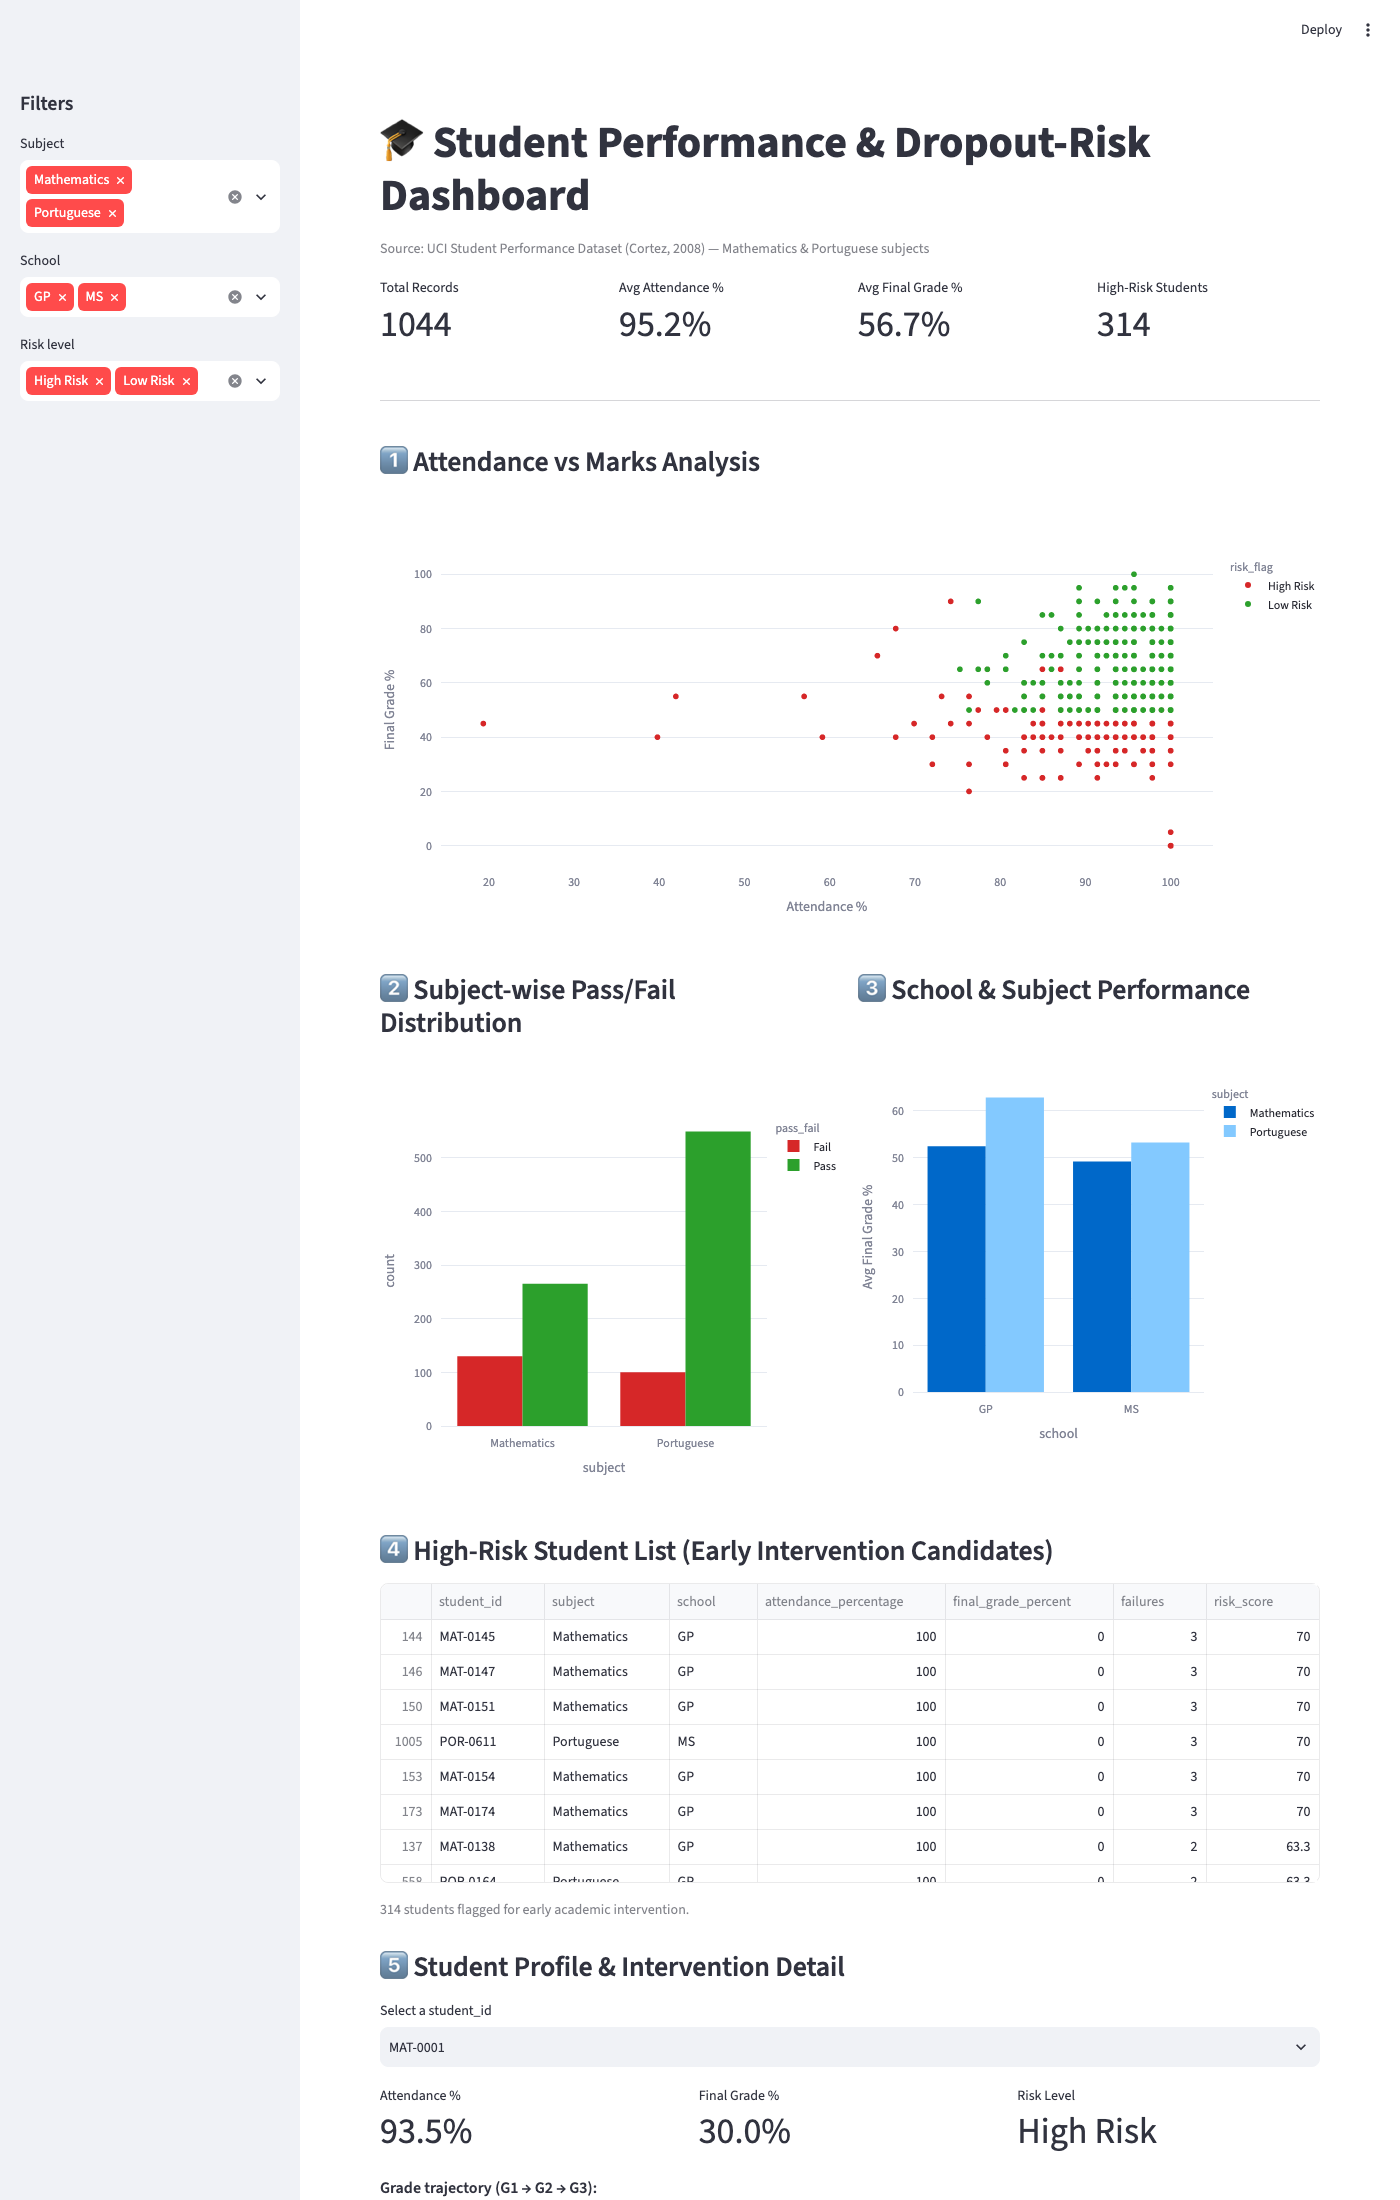
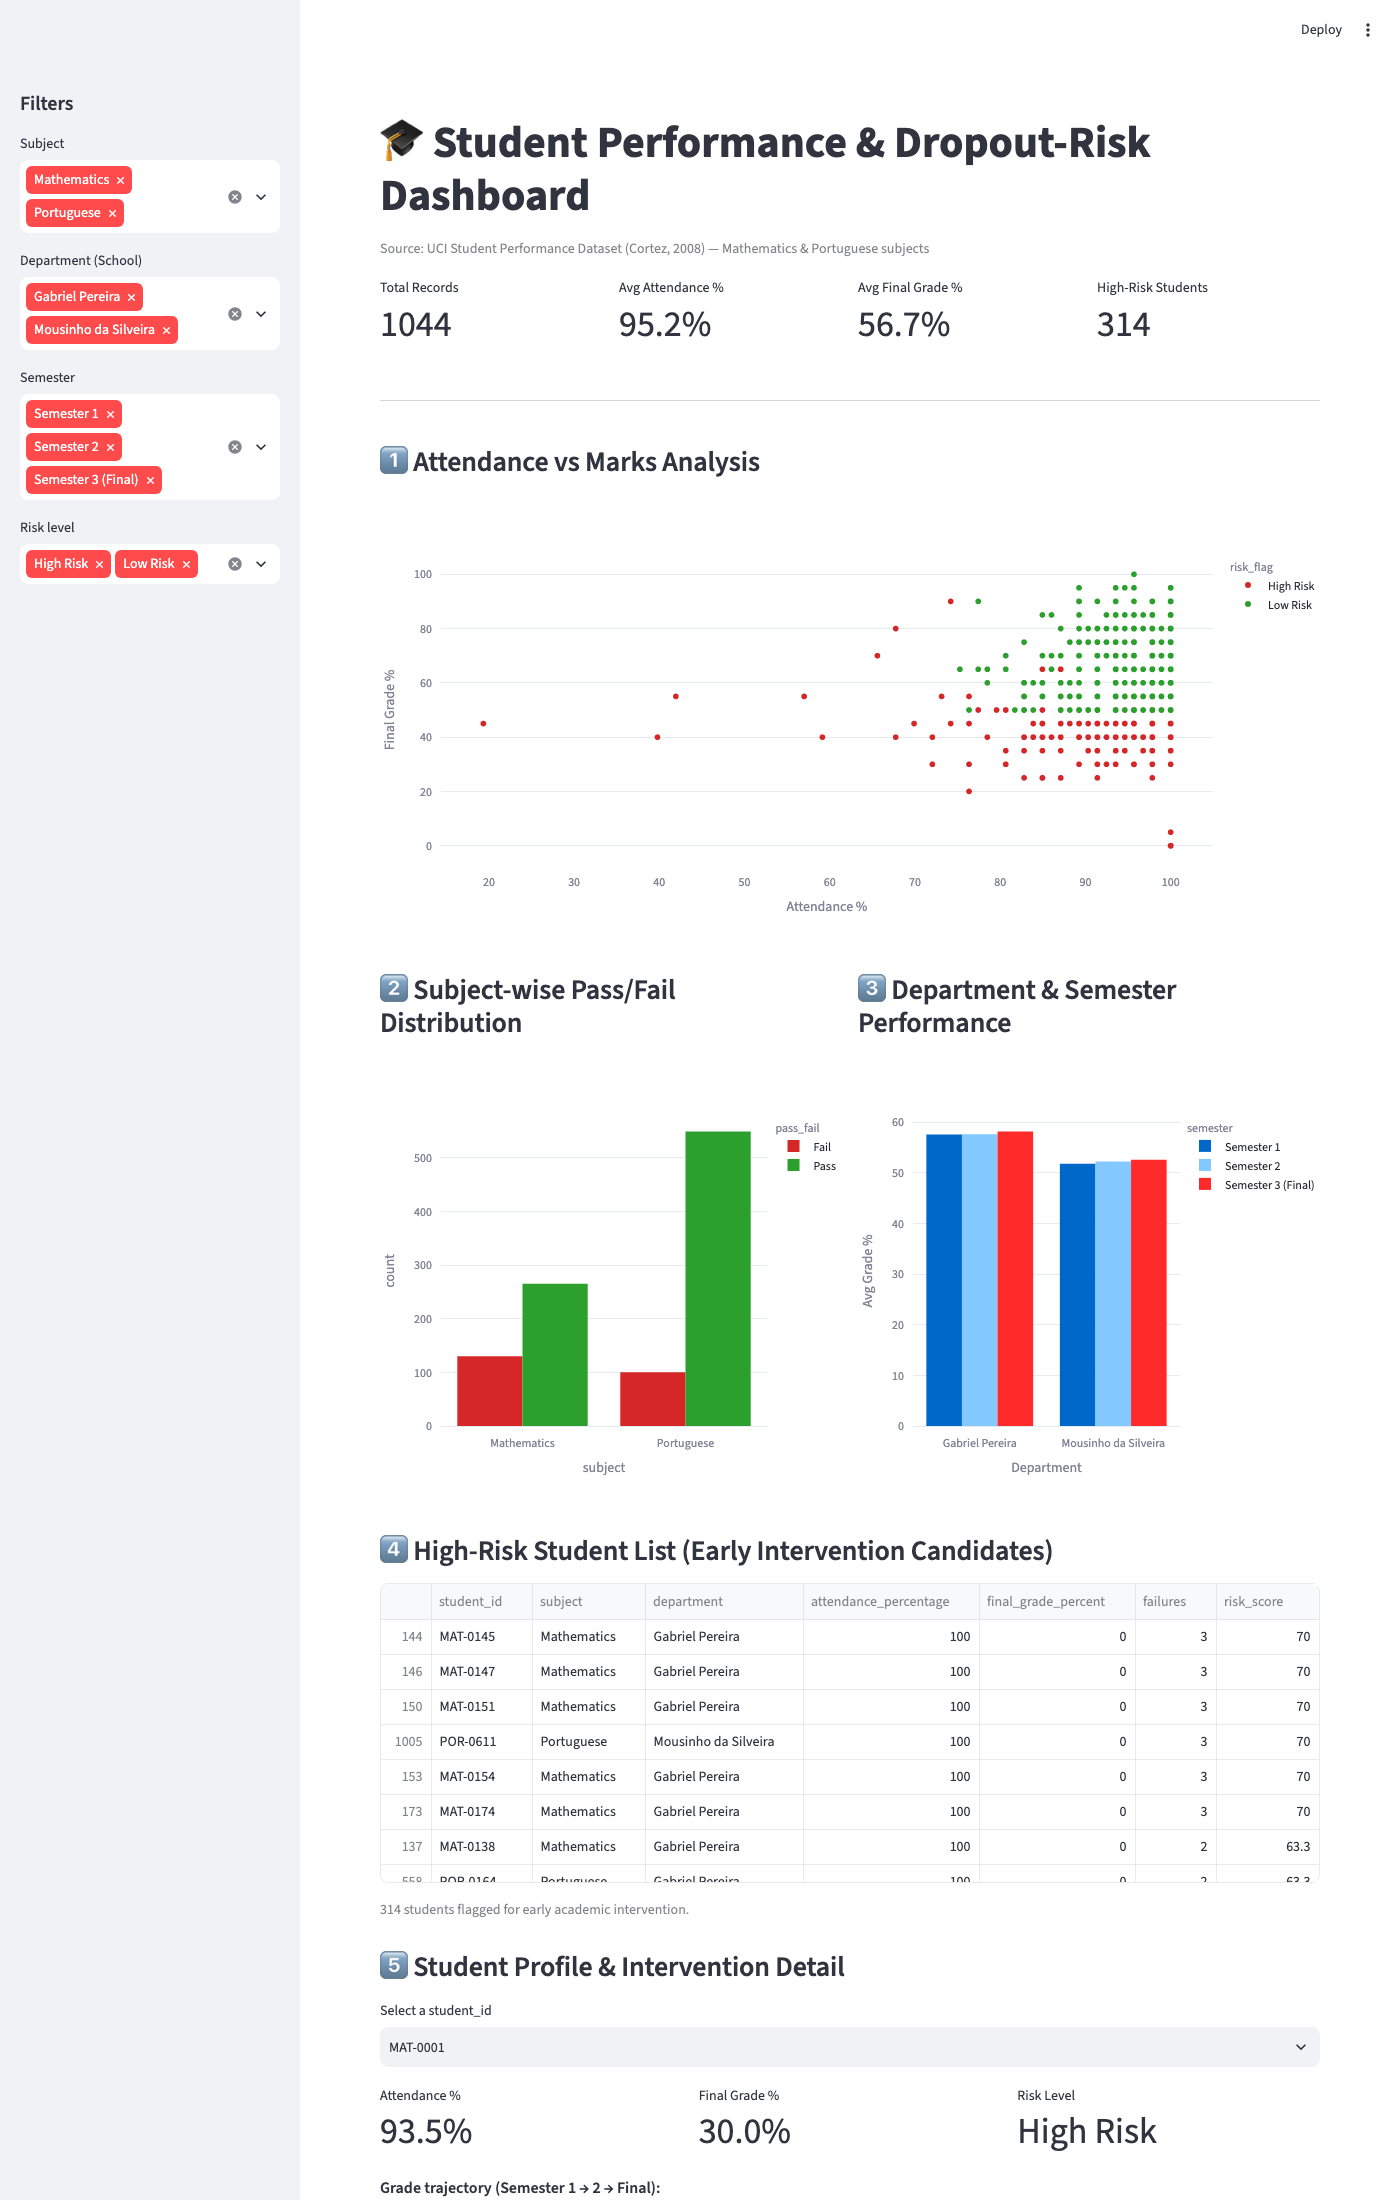
Add Department and Semester filters to the Streamlit dashboard
- Sidebar: Department (School) filter using real school names (Gabriel Pereira / Mousinho da Silveira)
- Sidebar: Semester filter (Semester 1/2/Final, mapped from G1/G2/G3 assessment periods)
- View 3 updated to Department & Semester Performance (grouped bar by department, colored by semester)
- Student profile grade trajectory relabeled to semester terms for consistency

diff --git a/dashboard/app.py b/dashboard/app.py
@@ -33,17 +33,32 @@ def load_data():
 
 df, subject_summary, dept_summary = load_data()
 
+# The UCI dataset's `school` code stands in for "department" here (GP / MS
+# are the two participating secondary schools); mapped to their real names
+# for readability. There's no native semester field either -- G1, G2, G3 are
+# the three periodic assessment checkpoints across the academic term, so
+# they're treated as "Semester 1 / 2 / Final" for the semester-wise view.
+DEPARTMENT_LABELS = {"GP": "Gabriel Pereira", "MS": "Mousinho da Silveira"}
+SEMESTER_LABELS = {"G1": "Semester 1", "G2": "Semester 2", "G3": "Semester 3 (Final)"}
+
+df["department"] = df["school"].map(DEPARTMENT_LABELS).fillna(df["school"])
+
 st.title("🎓 Student Performance & Dropout-Risk Dashboard")
 st.caption("Source: UCI Student Performance Dataset (Cortez, 2008) — Mathematics & Portuguese subjects")
 
 # --- Sidebar filters ---------------------------------------------------
 st.sidebar.header("Filters")
 subjects = st.sidebar.multiselect("Subject", options=df["subject"].unique(), default=list(df["subject"].unique()))
-schools = st.sidebar.multiselect("School", options=df["school"].unique(), default=list(df["school"].unique()))
+departments = st.sidebar.multiselect(
+    "Department (School)", options=df["department"].unique(), default=list(df["department"].unique())
+)
+semesters = st.sidebar.multiselect(
+    "Semester", options=list(SEMESTER_LABELS.values()), default=list(SEMESTER_LABELS.values())
+)
 risk_filter = st.sidebar.multiselect("Risk level", options=df["risk_flag"].unique(), default=list(df["risk_flag"].unique()))
 
 filtered = df[
-    df["subject"].isin(subjects) & df["school"].isin(schools) & df["risk_flag"].isin(risk_filter)
+    df["subject"].isin(subjects) & df["department"].isin(departments) & df["risk_flag"].isin(risk_filter)
 ]
 
 # --- KPI row -------------------------------------------------------
@@ -75,12 +90,26 @@ with col_a:
                   color_discrete_map={"Pass": "#2ca02c", "Fail": "#d62728"})
     st.plotly_chart(fig2, use_container_width=True)
 
-# --- View 3: Department (school) and subject performance -------------
+# --- View 3: Department and semester performance ----------------------
 with col_b:
-    st.subheader("3⃣ School & Subject Performance")
+    st.subheader("3⃣ Department & Semester Performance")
+    period_df = filtered.melt(
+        id_vars=["department"], value_vars=["G1", "G2", "G3"],
+        var_name="period", value_name="grade",
+    )
+    period_df["semester"] = period_df["period"].map(SEMESTER_LABELS)
+    period_df = period_df[period_df["semester"].isin(semesters)]
+    period_df["grade_percent"] = period_df["grade"] / 20 * 100
+
+    dept_semester_summary = (
+        period_df.groupby(["department", "semester"])["grade_percent"]
+        .mean().reset_index()
+    )
     fig3 = px.bar(
-        dept_summary, x="school", y="avg_final_grade_percent", color="subject",
-        barmode="group", labels={"avg_final_grade_percent": "Avg Final Grade %"},
+        dept_semester_summary, x="department", y="grade_percent", color="semester",
+        barmode="group",
+        category_orders={"semester": list(SEMESTER_LABELS.values())},
+        labels={"grade_percent": "Avg Grade %", "department": "Department"},
     )
     st.plotly_chart(fig3, use_container_width=True)
 
@@ -89,7 +118,7 @@ st.subheader("4⃣ High-Risk Student List (Early Intervention Candidates)")
 high_risk = (
     filtered[filtered["risk_flag"] == "High Risk"]
     .sort_values("risk_score", ascending=False)
-    [["student_id", "subject", "school", "attendance_percentage", "final_grade_percent",
+    [["student_id", "subject", "department", "attendance_percentage", "final_grade_percent",
       "failures", "risk_score"]]
 )
 st.dataframe(high_risk, use_container_width=True, height=300)
@@ -105,14 +134,17 @@ pc1.metric("Attendance %", f"{profile['attendance_percentage']:.1f}%")
 pc2.metric("Final Grade %", f"{profile['final_grade_percent']:.1f}%")
 pc3.metric("Risk Level", profile["risk_flag"])
 
-st.write("**Grade trajectory (G1 → G2 → G3):**")
-trend_df = pd.DataFrame({"Assessment": ["G1", "G2", "G3"], "Grade": [profile["G1"], profile["G2"], profile["G3"]]})
-fig5 = px.line(trend_df, x="Assessment", y="Grade", markers=True, range_y=[0, 20])
+st.write("**Grade trajectory (Semester 1 → 2 → Final):**")
+trend_df = pd.DataFrame({
+    "Semester": list(SEMESTER_LABELS.values()),
+    "Grade": [profile["G1"], profile["G2"], profile["G3"]],
+})
+fig5 = px.line(trend_df, x="Semester", y="Grade", markers=True, range_y=[0, 20])
 st.plotly_chart(fig5, use_container_width=True)
 
 st.write("**Demographics & engagement:**")
 st.json({
-    "school": profile["school"], "sex": profile["sex"], "age": int(profile["age"]),
+    "department": profile["department"], "sex": profile["sex"], "age": int(profile["age"]),
     "address": profile["address"], "internet_access": profile["internet"],
     "study_time_scale_1to4": int(profile["studytime"]),
     "past_class_failures": int(profile["failures"]),
